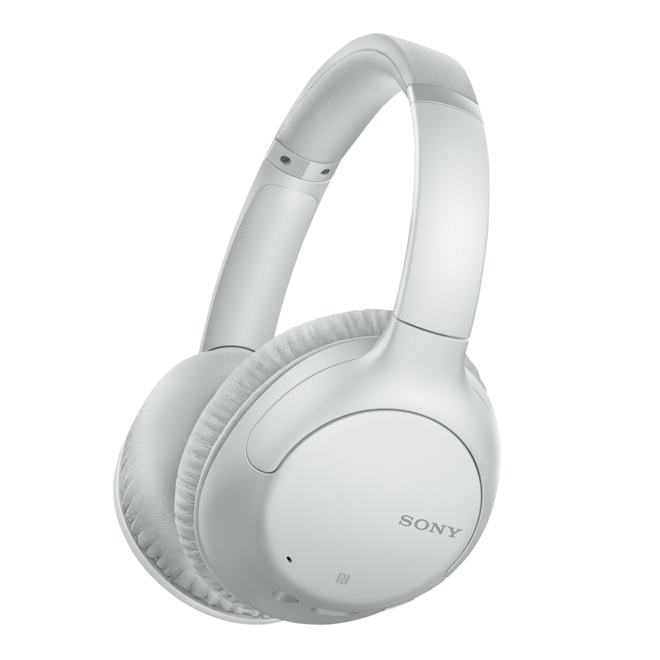
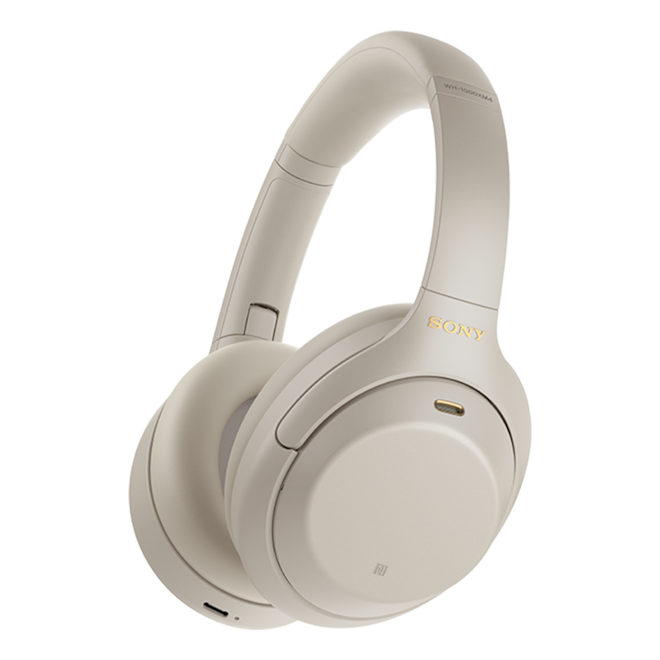
landing page work is done

Changed region(s): [[0.1515, 0.0303, 0.8182, 0.9697]]

diff --git a/assets/css/style.css b/assets/css/style.css
@@ -45,7 +45,7 @@ body {
     position: relative;
 }
 .img_container {
-   background-image: url('/assets/images/product1.png');
+   background-image: url('/assets/images/product.png');
    position: relative;
    height: 120vh;
    width: 50%;
